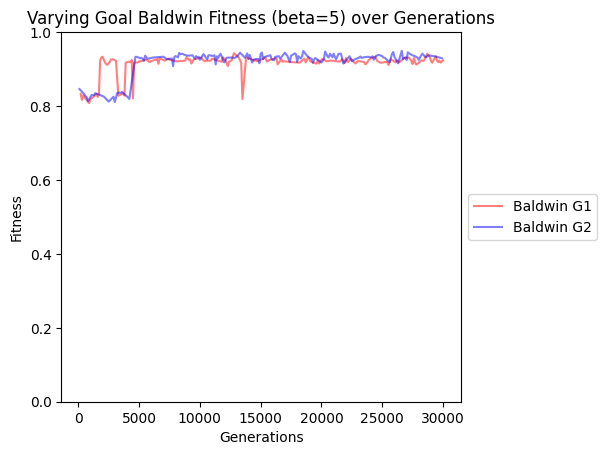
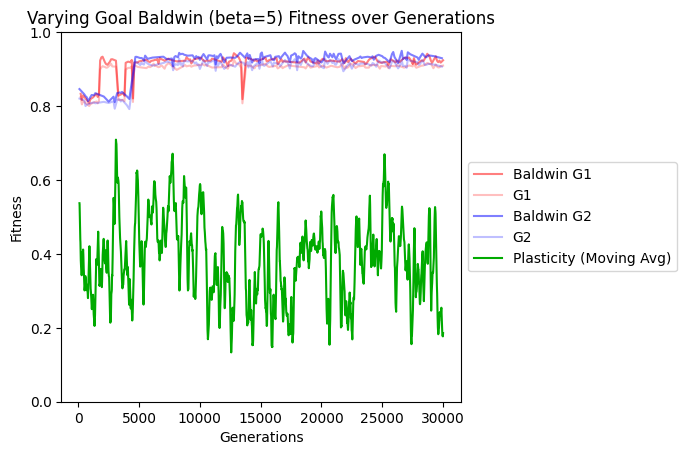
better plotting again

Changed region(s): [[0.0, 0.0923, 1.0, 0.9846], [0.0297, 0.0, 0.8303, 0.0923]]

diff --git a/plotter.py b/plotter.py
@@ -2,30 +2,30 @@ import re
 import matplotlib.pyplot as plt
 import numpy as np
 
-# FILE = 'logs/baldwin_fixed_run1.txt'
-# with open(FILE, 'r') as f:
-    # data = f.read()
+import sys
 
-# lines = data.split('\n')
+if len(sys.argv) < 3:
+    print("Usage: python plotter.py <beta> <change_goal>")
+    exit(1)
 
-BETA = 1
-# CHANGE_GOAL = True
+BETA = int(sys.argv[1])
+CHANGE_GOAL = bool(int(sys.argv[2]))
+
+prefix = f'baldwin_{BETA}_' if BETA > 1 else ''
+goal = f'fvg' if CHANGE_GOAL else 'fixed'
 
 # Format:
 format = re.compile(r'\[Generation (\d+)\] Fitness: (\d+\.\d+) No-Baldwin Fitness: (\d+\.\d+) Maleable: (\d+\.\d+)% Goal: (\d) Times: (\d+\.\d+)s')
-# format = re.compile(r'\[Generation (\d+)\] Fitness: (\d+\.\d+) Goal: (\d)')
 
 header = ['Generation', 'Fitness', 'Pure Fitness', '% Maleable', 'Goal', 'Time']
-# header = ['Generation', 'Fitness', 'Goal']
 
 data_map: dict[int, list] = {}
 data0_map = {}
 data1_map = {}
 
-
+# LOAD THE DATA
 for i in range(1, 11):
-    # FILE = f'aws/logs/log_baldwin_{BETA}_fvg_{i}.txt'
-    FILE = f'aws/logs/log_fvg_{i}.txt'
+    FILE = f'aws/logs/log_{prefix}{goal}_{i}.txt'
     with open(FILE, 'r', encoding='utf-8') as f:
         data = f.read()
 
@@ -40,12 +40,14 @@ for i in range(1, 11):
 
     # Only where Goal is 0
     goal0_data = np.array([d for d in data if d[4] == 0 and d[0] % 100 == 0], dtype=float)
-    goal1_data = np.array([d for d in data if d[4] == 1 and d[0] % 100 == 0], dtype=float)
     # goal0_data = np.array([d for d in data if d[2] == 0 and d[0] % 100 == 0], dtype=float)
-    # goal1_data = np.array([d for d in data if d[2] == 1 and d[0] % 100 == 0], dtype=float)
-
     data0_map[i] = goal0_data
-    data1_map[i] = goal1_data
+
+    if CHANGE_GOAL:
+        goal1_data = np.array([d for d in data if d[4] == 1 and d[0] % 100 == 0], dtype=float)
+        # goal1_data = np.array([d for d in data if d[2] == 1 and d[0] % 100 == 0], dtype=float)
+        data1_map[i] = goal1_data
+
     data_map[i] = data
 
 
@@ -53,23 +55,30 @@ def moving_average(data, window_size):
     return np.convolve(data, np.ones(window_size), 'valid') / window_size
 
 
+TITLE = (f"Fixed Goal" if not CHANGE_GOAL else f"Varying Goal") + (f" Baldwin (beta={BETA}) " if BETA > 1 else " ") + "Fitness over Generations"
+
 def drawall():
     for i in range(1, 11):
         goal0_data = data0_map[i]
-        goal1_data = data1_map[i]
+        if CHANGE_GOAL:
+            goal1_data = data1_map[i]
+        data = np.array(data_map[i])
 
-        plt.plot(goal0_data[:, 0], goal0_data[:, 1], label='Baldwin G1', color='#ff000080')
-        # plt.plot(goal0_data[:, 0], goal0_data[:, 2], label='G1', color='#ff000040')
-        plt.plot(goal1_data[:, 0], goal1_data[:, 1], label='Baldwin G2', color='#0000ff80')
-        # plt.plot(goal1_data[:, 0], goal1_data[:, 2], label='G2', color='#0000ff40')
+        if BETA > 1:
+            plt.plot(goal0_data[:, 0], goal0_data[:, 1], label='Baldwin G1', color='#ff000080')
+        plt.plot(goal0_data[:, 0], goal0_data[:, 2], label='G1', color=('#ff000040' if BETA > 1 else "#ff000080"))
 
-        # window_size = 10  # Adjust this value for the desired moving average window size
-        # maleable_moving_avg = moving_average(data[:, 3] / 100, window_size)
-        # plt.plot(data[window_size - 1:, 0], maleable_moving_avg, label='Plasticity (Moving Avg)', color='#00aa00')
+        if CHANGE_GOAL:
+            if BETA > 1:
+                plt.plot(goal1_data[:, 0], goal1_data[:, 1], label='Baldwin G2', color='#0000ff80')
+            plt.plot(goal1_data[:, 0], goal1_data[:, 2], label='G2', color='#0000ff40'if BETA > 1 else "#0000ff80")
 
+        if BETA > 1:
+            window_size = 10  # Adjust this value for the desired moving average window size
+            maleable_moving_avg = moving_average(data[:, 3] / 100, window_size)
+            plt.plot(data[window_size - 1:, 0], maleable_moving_avg, label='Plasticity (Moving Avg)', color='#00aa00')
 
-        # plt.title(f"Varying Goal Baldwin Fitness (beta={BETA}) over Generations")
-        plt.title(f"FVG Fitness over Generations")
+        plt.title(TITLE)
 
         plt.xlabel('Generations')
         plt.ylabel('Fitness')
@@ -83,10 +92,9 @@ def drawall():
         # Set y-axis limits from 0 to 1
         plt.ylim(0, 1)
 
-        # UNCOMMENT THESE TO HAVE A SEPARATE PLOT FOR EACH RUN
         # Save the plot to the specified file
-        # plt.savefig(f"aws/plots/baldwin_{BETA}_fvg_{i}.png", bbox_inches="tight")
-        plt.savefig(f"aws/plots/fvg_{i}.png", bbox_inches="tight")
+        plt.savefig(f"aws/plots/{prefix}{goal}_{i}.png", bbox_inches="tight")
+        print(f"Saved {prefix}{goal}_{i}.png")
         plt.clf()  # Clear the current figure after saving the plot
 
 def drawaverage():
@@ -108,28 +116,40 @@ def drawaverage():
         for gen in sorted_gens
         if any(d[4] == 0 for d in gen_data[gen])
     ]
-    avg1s = [
-        [gen, np.average([d[1] for d in gen_data[gen] if d[4] == 1]), np.average([d[2] for d in gen_data[gen] if d[4] == 1])]
-        for gen in sorted_gens
-        if any(d[4] == 1 for d in gen_data[gen])
-    ]
+    if CHANGE_GOAL:
+        avg1s = [
+            [gen, np.average([d[1] for d in gen_data[gen] if d[4] == 1]), np.average([d[2] for d in gen_data[gen] if d[4] == 1])]
+            for gen in sorted_gens
+            if any(d[4] == 1 for d in gen_data[gen])
+        ]
+    if BETA > 1:
+        maleables = [
+            [gen, np.average([d[3] for d in gen_data[gen]])]
+            for gen in sorted_gens
+        ]
 
     goal0_data = np.array(avg0s)
-    goal1_data = np.array(avg1s)
+    if CHANGE_GOAL:
+        goal1_data = np.array(avg1s)
+    if BETA > 1:
+        maleable_data = np.array(maleables)
 
     window_size = 20  # Adjust this value for the desired moving average window size
 
-    plt.plot(goal0_data[window_size - 1:, 0], moving_average(goal0_data[:, 1], window_size), label='Baldwin G1', color='#ff000080')
-    plt.plot(goal0_data[window_size - 1:, 0], moving_average(goal0_data[:, 2], window_size), label='G1', color='#ff000040')
-    plt.plot(goal1_data[window_size - 1:, 0], moving_average(goal1_data[:, 1], window_size), label='Baldwin G2', color='#0000ff80')
-    plt.plot(goal1_data[window_size - 1:, 0], moving_average(goal1_data[:, 2], window_size), label='G2', color='#0000ff40')
+    if BETA > 1:
+        plt.plot(goal0_data[window_size - 1:, 0], moving_average(goal0_data[:, 1], window_size), label='Baldwin G1', color='#ff000080')
+    plt.plot(goal0_data[window_size - 1:, 0], moving_average(goal0_data[:, 2], window_size), label='G1', color='#ff000040' if BETA > 1 else "#ff000080")
+    
+    if CHANGE_GOAL:
+        if BETA > 1:
+            plt.plot(goal1_data[window_size - 1:, 0], moving_average(goal1_data[:, 1], window_size), label='Baldwin G2', color='#0000ff80')
+        plt.plot(goal1_data[window_size - 1:, 0], moving_average(goal1_data[:, 2], window_size), label='G2', color='#0000ff40'if BETA > 1 else "#0000ff80")
 
-    # maleable_moving_avg = moving_average(data[:, 3] / 100, window_size)
-    # plt.plot(data[window_size - 1:, 0], maleable_moving_avg, label='Plasticity (Moving Avg)', color='#00aa00')
+    if BETA > 1:
+        plt.plot(maleable_data[window_size - 1:, 0], moving_average(maleable_data[:, 1] / 100, window_size), label='Plasticity (Moving Avg)', color='#00aa00')
 
 
-    # plt.title(f"Varying Goal Baldwin Fitness (beta={BETA}) over Generations")
-    plt.title(f"FVG Fitness over Generations")
+    plt.title('Average ' + TITLE)
 
     plt.xlabel('Generations')
     plt.ylabel('Fitness')
@@ -143,14 +163,10 @@ def drawaverage():
     # Set y-axis limits from 0 to 1
     plt.ylim(0, 1)
 
-    # UNCOMMENT THESE TO HAVE A SEPARATE PLOT FOR EACH RUN
     # Save the plot to the specified file
-    # plt.savefig(f"aws/plots/baldwin_fvg_{i}.png", bbox_inches="tight")
-    # plt.clf()  # Clear the current figure after saving the plot
+    plt.savefig(f"aws/plots/{prefix}{goal}.png", bbox_inches="tight")
+    print(f"Saved {prefix}{goal}.png")
+    plt.clf()
 
 drawall()
-# drawaverage()
-
-# UNCOMMENT THIS TO HAVE A PLOT FOR ALL RUNS
-# plt.savefig(f"aws/plots/baldwin_{BETA}_fvg.png", bbox_inches="tight")
-# plt.savefig(f"aws/plots/fvg.png", bbox_inches="tight")
+drawaverage()
